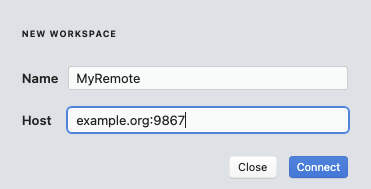
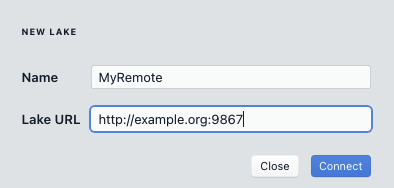
Update "Importing Parquet and ZST" and "Remote Lakes"

diff --git a/docs/Remote-Lakes.md b/docs/Remote-Lakes.md
@@ -11,11 +11,10 @@
 
 # Summary
 
-By default, the Brim application connects to a Lake on the system on which
-it is launched. This Lake includes [Zed Lake](https://zed.brimdata.io/docs/commands/zed/#1-the-lake-model)
-storage on the local filesystem for holding imported data. However, Brim is
-capable of accessing data stored in a Zed Lake in a remote Lake as well.
-This cookbook describes the available options and current limitations.
+By default, the Brim application connects to a [Zed lake](https://zed.brimdata.io/docs/commands/zed/#1-the-lake-model)
+on the system on which it is launched. However, Brim is capable of accessing
+data stored in a Zed lake on a remove system. This cookbook describes the
+available options and current limitations.
 
 # About Cookbooks
 
@@ -43,8 +42,8 @@ Before diving into the specifics of what's possible, here's an overview of
 some rough edges you may encounter as you work through the configurations
 described in this article.
 
-1. While **logs** can be imported from your local Brim app directly to a remote
-   Lake, **packet captures** currently cannot ([brim/1730](https://github.com/brimdata/brim/issues/1730)).
+1. Packet captures cannot currently be imported with Brim directly to a remote
+   Zed lake ([brim/1730](https://github.com/brimdata/brim/issues/1730)).
 
 2. While the configuration potentially allows multiple remote users to access
    the same centrally-stored data, there's currently no concept of user
@@ -58,21 +57,19 @@ your desktop, it's easy to think of Brim as a simple standalone application.
 However, the overall app experience is powered by a distributed "backend"
 architecture that includes multiple components.
 
-One essential component is the Zed Lake which is accessed via a
+One essential component is the Zed lake which is accessed via a
 [`zed serve`](https://zed.brimdata.io/docs/commands/zed/#213-serve)
 process that manages the storage and querying of imported data. Operations on
-the Zed Lake are invoked via a [REST API](https://en.wikipedia.org/wiki/Representational_state_transfer)
+the Zed lake are invoked via a [REST API](https://zed.brimdata.io/docs/lake/api/)
 that's utilized by a "client", such as the Brim app. The
-[`zed`](https://github.com/brimdata/zed#quick-start) command is also available
+[`zed`](https://zed.brimdata.io/docs/commands/zed/) command is also available
 as a command line client that can perform many of the same operations as the
 Brim app, and therefore may be useful in scripting and automation.
 
-![Brim zed and the Zed Lake](media/Brim-zapi-zed-lake-serve.png)
+![Brim zed and the Zed lake](media/Brim-zed-cli-zed-serve.png)
 
-The location where Zed stores imported data is known as the
-**Data Directory**. This location can be changed via a setting in Brim's
-**Preferences** menu. The default location is a `lake` subdirectory under the
-Brim [user data](https://github.com/brimdata/brim/wiki/Filesystem-Paths#user-data)
+The default location where Zed stores imported data is a `lake` subdirectory
+under the Brim [user data](https://github.com/brimdata/brim/wiki/Filesystem-Paths#user-data)
 path.
 
 If you examine the process table while Brim is running, you can observe the
@@ -81,8 +78,8 @@ here is the process on a Mac laptop being operated by username "phil".
 
 ```
 macOS# ps auxww | grep zed
-phil             37542   0.0  0.0  4277664    760 s001  S+   10:30AM   0:00.01 grep zed
-phil             37512   0.0  0.2  5042424  29300   ??  S    10:30AM   0:01.50 /Applications/Brim.app/Contents/Resources/app.asar.unpacked/zdeps/zed serve -l localhost:9867 -R /Users/phil/Library/Application Support/Brim/data/lake -log.level=info -log.filemode=rotate -log.path /Users/phil/Library/Application Support/Brim/logs/zlake.log -brimfd=3
+phil              5289   0.0  0.0 34122868    868 s002  S+    4:37PM   0:00.00 grep zed
+phil              5254   0.0  0.1 34867788  15340   ??  S     4:37PM   0:00.03 /Applications/Brim.app/Contents/Resources/app.asar.unpacked/zdeps/zed serve -l localhost:9867 -lake /Users/phil/Library/Application Support/Brim/lake -log.level=info -log.filemode=rotate -log.path /Users/phil/Library/Application Support/Brim/logs/zlake.log -brimfd=3
 ```
 
 Some useful information revealed in this command line:
@@ -91,8 +88,7 @@ Some useful information revealed in this command line:
    this `zed serve` is prepared to accept _only_ connections that arrive from
    a client running on the same local host.
 
-1. The `-R` option points to the Data Directory, which is the default
-   location for macOS in this case.
+1. The `-R` option points to the `lake` user data subdirectory for macOS.
 
 1. The `-brimfd=3` is an option unique to when `zed serve` is launched by
    Brim. This helps ensure that if Brim is killed abruptly, the `zed` process will
@@ -114,7 +110,7 @@ For our example remote host, we'll use a Linux Ubuntu 18.04 VM running in
 Amazon AWS. Because Brim interacts with `zed serve` over a REST API that
 is still evolving, care should be taken to ensure the Brim version being
 installed on the remote side matches the version being run locally. In this
-cookbook we'll use Brim v0.25.0, which includes Zed v0.30.0.
+cookbook we'll use Brim v0.29.0, which includes Zed v1.0.0.
 
 Even though our VM on AWS has no graphical interface, we'll install the full
 Brim package because it includes the compatible Zed binaries as well as a
@@ -122,9 +118,9 @@ bundled [Brimcap](https://github.com/brimdata/brimcap) that will prove useful
 if we want to import packet capture data.
 
 ```
-ubuntu# wget --quiet https://github.com/brimdata/brim/releases/download/v0.25.0/Brim-0.25.0.deb
+ubuntu# wget --quiet https://github.com/brimdata/brim/releases/download/v0.29.0/Brim-0.29.0.deb
 ubuntu# sudo apt update
-ubuntu# sudo apt install -y ./Brim-0.25.0.deb
+ubuntu# sudo apt install -y ./Brim-0.29.0.deb
 ```
 
 The following additional steps are also currently necessary to work around
@@ -150,10 +146,10 @@ see. Therefore we'll start `zed serve` manually from the
 platform as follows:
 
 ```
-ubuntu# mkdir -p ~/.config/Brim/data/lake ~/.config/Brim/data/brimcap-root ~/.config/Brim/logs
+ubuntu# mkdir -p ~/.config/Brim/lake ~/.config/Brim/data/brimcap-root ~/.config/Brim/logs
 ubuntu# /opt/Brim/resources/app.asar.unpacked/zdeps/zed serve \
           -l :9867 \
-          -lake $HOME/.config/Brim/data/lake \
+          -lake $HOME/.config/Brim/lake \
           -log.level=info \
           -log.filemode=rotate \
           -log.path $HOME/.config/Brim/logs/zlake.log
@@ -170,7 +166,7 @@ to the command line Brim would have invoked:
    rather than the Brim app.
 
 At this point `zed serve` is ready to accept remote connections. However,
-the network between clients and our remote Zed Lake needs to permit this
+the network between clients and our remote Zed lake needs to permit this
 connectivity. You'll need to perform whatever firewall/VPN configuration is
 necessary for your environment to enable this. In our specific AWS example, one
 way to achieve this is via a [Security Group](https://docs.aws.amazon.com/vpc/latest/userguide/VPC_SecurityGroups.html)
@@ -181,10 +177,10 @@ IP address.
 
 # Importing Data
 
-As mentioned in the [Limitations](#Limitations) above, it's not possible for
+As mentioned in the [Limitations](#limitations) above, it's not possible for
 remote Brim clients to import packet capture data directly to a remote Zed
-Lake. However we can use the bundled `zed` command line tool to create a pool
-in the Zed Lake for our data and then use the bundled `brimcap` to load data
+lake. However we can use the bundled `zed` command line tool to create a pool
+in the Zed lake for our data and then use the bundled `brimcap` to load data
 into it.
 
 As sample packet data, we'll import and index a [wrccdc pcap](https://wrccdc.org/)
@@ -192,15 +188,18 @@ from a separate shell on our Linux VM:
 
 ```
 ubuntu# wget --quiet https://archive.wrccdc.org/pcaps/2018/wrccdc.2018-03-23.010014000000000.pcap.gz
+
 ubuntu# gunzip wrccdc.2018-03-23.010014000000000.pcap.gz
+
 ubuntu# export PATH="/opt/Brim/resources/app.asar.unpacked/zdeps:$PATH"
 
 # Set ZED_LAKE env so zed knows to talk to the local zed service instance.
 ubuntu# export ZED_LAKE=http://localhost:9867
+
 ubuntu# zed create wrccdc
 pool created: wrccdc 1xu2rXQ7D6ayTxrJE7XDVDS3mm8
 
-ubuntu# zed use -p wrccdc
+ubuntu# zed use wrccdc
 Switched to branch "main" on pool "wrccdc"
 
 ubuntu# brimcap analyze wrccdc.2018-03-23.010014000000000.pcap | zed load -
@@ -210,22 +209,23 @@ ubuntu# brimcap index -root ~/.config/Brim/data/brimcap-root -r wrccdc.2018-03-2
 ```
 
 While it's possible to import logs from the Brim app directly into a remote
-Zed Lake, we can also use `zed` on our Linux VM. Here we'll import the Zeek
+Zed lake, we can also use `zed` on our Linux VM. Here we'll import the Zeek
 TSV logs from our [zed-sample-data](https://github.com/brimdata/zed-sample-data).
 
 ```
 ubuntu# git clone --quiet --depth=1 https://github.com/brimdata/zed-sample-data
+
 ubuntu# zed create zed-sample-data
 pool created: zed-sample-data 1xu3fug3iq1y17RMQYRiCtORLMC
 
-ubuntu# zed use -p zed-sample-data
+ubuntu# zed use zed-sample-data
 Switched to branch "main" on pool "zed-sample-data"
 
 ubuntu# zed load zed-sample-data/zeek-default/*
 1uMRE9bZnbNAIY8tEOfIXOa8c2w committed
 ```
 
-To see our imported data as pools in the Zed Lake:
+To see our imported data as pools in the Zed lake:
 
 ```
 ubuntu# zed ls
@@ -235,7 +235,7 @@ zed-sample-data 1uMR6rGmrSBRHnB0yqOGnzhQb0b key ts order desc
 
 # Accessing Our Remote Lake
 
-Now that we've got data imported into our remote Zed Lake, we'll access it from
+Now that we've got data imported into our remote Zed lake, we'll access it from
 the Brim app that's running on our Mac laptop.
 
 The option to initiate a remote connection is available by clicking the
@@ -250,7 +250,7 @@ be included if it's listening on a port other than the default `9867`.
 
 ![Add Lake window](media/Add-Lake-window.png)
 
-Now the pools in our remote Zed Lake will appear in the left panel just as we're
+Now the pools in our remote Zed lake will appear in the left panel just as we're
 accustomed to seeing when working with local data. We can now enter Zed queries
 and perform normal workflows.
 
@@ -269,17 +269,17 @@ macOS# brimcap index -root "$HOME/Library/Application Support/Brim/data/brimcap-
 ![Opening flow](media/Brimcap-Remote-Flow-Wireshark.png)
 
 You can import logs (but not pcaps) directly from your Brim app to the remote
-Zed Lake in the same manner as you've been doing locally.
+Zed lake in the same manner as you've been doing locally.
 
-![Importing logs to remote Zed Lake](media/Remote-Zed-Lake-Import.gif)
+![Importing logs to remote Zed lake](media/Remote-Zed-Lake-Import.gif)
 
-Attempts to import a pcap directly to the remote Lake will fail with an
+Attempts to import a pcap directly to the remote lake will fail with an
 error message (see [brim/1730](https://github.com/brimdata/brim/issues/1730)
 for details).
 
-A connection to a remote Lake can be removed by selecting the **Get Info**
+A connection to a remote lake can be removed by selecting the **Get Info**
 option in the pull-down and clicking **Logout**. This only removes the config
-in your Brim app that references the remote Lake. It does not shutdown the
+in your Brim app that references the remote lake. It does not shutdown the
 remote `zed serve` nor does it delete any data stored there.
 
 ![Get Lake info](media/Lake-Get-Info.png)

diff --git a/docs/Importing-Parquet-and-ZST.md b/docs/Importing-Parquet-and-ZST.md
@@ -22,7 +22,7 @@ that can be easily imported into Brim.
 
 Preprocessing can be performed with the [`zq`](https://zed.brimdata.io/docs/commands/zq/)
 CLI tool. These Zed CLI tools are included with Brim and can be found in the
-`zdeps` directory under the Brim [application binaries](https://github.com/brimdata/brim/wiki/Filesystem-Paths#application-binaries-v0250)
+`zdeps` directory under the Brim [application binaries](https://github.com/brimdata/brim/wiki/Filesystem-Paths#application-binaries)
 path.
 
 Input file format can be specified via the `-i` option.
